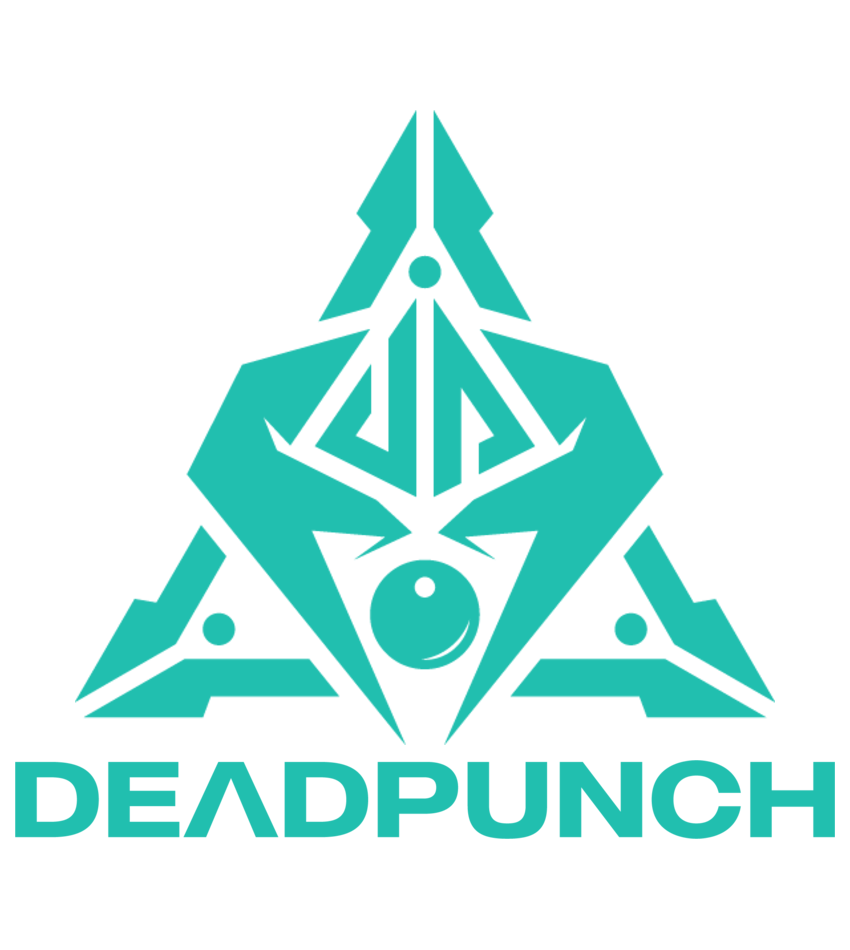
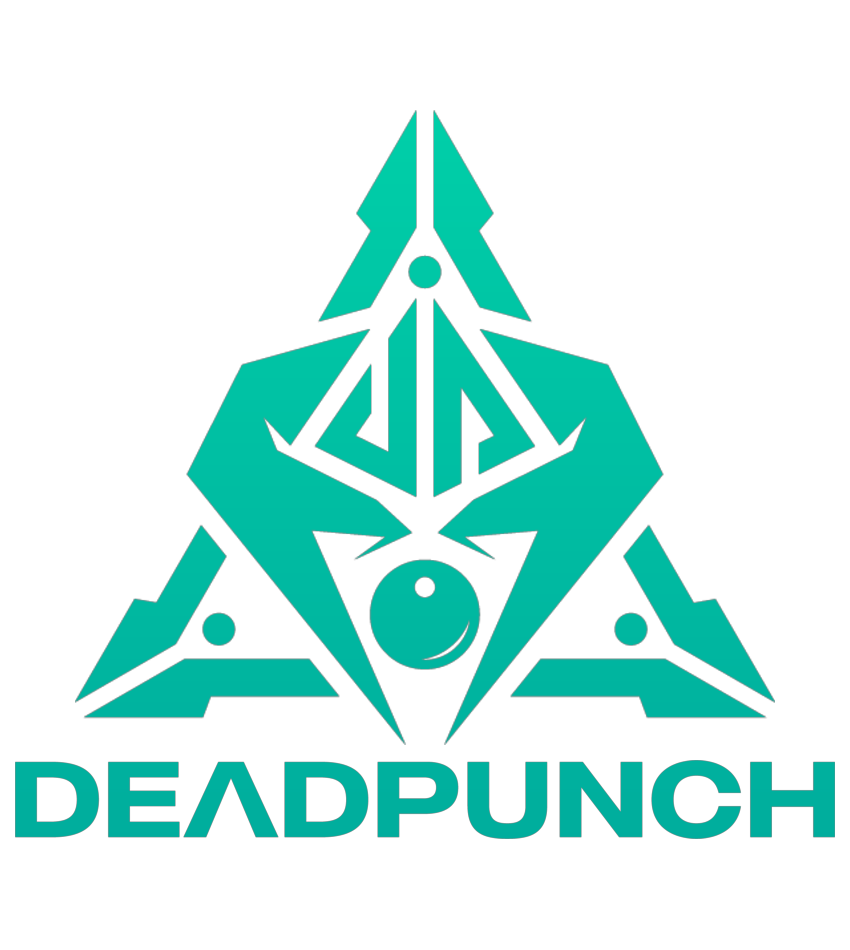
Simplify hero layout and fix all accent colors to cyan
- Simplified hero section: removed cluttered definition block
- Streamlined text from logo to notify button
- Updated tailwind config colors from red to cyan
- Fixed all hardcoded rgba red values to cyan
- Added cyan-glow CSS class
- Applied gradient to logo

Changed region(s): [[0.0, 0.1221, 1.0, 0.8853]]

diff --git a/src/components/HeroSection.tsx b/src/components/HeroSection.tsx
@@ -76,35 +76,25 @@ const HeroSection = () => {
         </div>
 
         {/* Hero Text */}
-        <div 
+        <div
           ref={textRef}
-          className="text-center max-w-4xl animate-reveal delay-200"
+          className="text-center max-w-2xl animate-reveal delay-200"
         >
-          <div className="inline-block px-4 py-1 mb-4 bg-deadpunch-red/10 border border-deadpunch-red/20 rounded-full backdrop-blur-sm">
-            <p className="text-deadpunch-red font-display uppercase tracking-wider text-sm">
-              For Players Who Play to Win
-            </p>
-          </div>
-          <h1 className="text-4xl md:text-5xl lg:text-6xl font-display font-bold mb-6 leading-tight text-white">
-            <span className="block mb-2">COMING SOON</span>
-            
-            {/* Definition Block - Added Here */}
-            <div className="max-w-2xl mx-auto my-4 px-5 py-3 bg-deadpunch-dark-lighter/50 border border-deadpunch-red/20 rounded-md backdrop-blur-sm">
-              <p className="text-base md:text-lg text-white italic">
-                <span className="text-deadpunch-red font-medium">The zone</span> is a state of complete focus and peak performance. In the billiards world, this heightened state of consciousness is known as <span className="text-deadpunch-red font-medium">deadpunch</span>.
-              </p>
-            </div>
-            
-            <span className="block text-deadpunch-red text-3xl md:text-4xl lg:text-5xl">Something's coming.</span>
-          </h1>
-          <p className="text-white text-lg md:text-xl mb-8 max-w-2xl mx-auto">
-            Be the first to know. Sign up to receive exclusive updates on early access when Deadpunch launches.
+          <p className="text-deadpunch-red font-display uppercase tracking-wider text-sm mb-6">
+            For Players Who Play to Win
           </p>
-          <div className="flex justify-center items-center">
-            <a href="#notify" className="btn-primary animate-reveal delay-300 bg-deadpunch-red hover:bg-deadpunch-red-hover text-white">
-              Notify Me
-            </a>
-          </div>
+
+          <h1 className="text-4xl md:text-5xl font-display font-bold mb-4 text-white">
+            COMING SOON
+          </h1>
+
+          <p className="text-deadpunch-gray-light text-lg mb-8">
+            Sign up for early access when we launch.
+          </p>
+
+          <a href="#notify" className="btn-primary bg-deadpunch-red hover:bg-deadpunch-red-hover text-white">
+            Notify Me
+          </a>
         </div>
       </div>
 

diff --git a/src/components/ProductTeasers.tsx b/src/components/ProductTeasers.tsx
@@ -62,10 +62,10 @@ const ProductTeasers = () => {
             >
               <Card className="bg-deadpunch-dark-lighter border-deadpunch-gray-dark hover:border-deadpunch-red/40 hover:ring-2 hover:ring-deadpunch-red/20 transition-all duration-300 h-full group">
                 <CardContent className="p-6 flex flex-col items-center text-center">
-                  <div className="w-20 h-20 flex items-center justify-center rounded-full bg-deadpunch-red/10 mb-6 mt-2 ring-2 ring-deadpunch-red/10 group-hover:ring-deadpunch-red/40 group-hover:bg-deadpunch-red/20 transition-all duration-300 group-hover:shadow-[0_0_15px_rgba(225,60,60,0.3)]">
+                  <div className="w-20 h-20 flex items-center justify-center rounded-full bg-deadpunch-red/10 mb-6 mt-2 ring-2 ring-deadpunch-red/10 group-hover:ring-deadpunch-red/40 group-hover:bg-deadpunch-red/20 transition-all duration-300 group-hover:shadow-[0_0_15px_rgba(0,212,170,0.3)]">
                     {product.icon}
                   </div>
-                  <h3 className="text-xl font-display font-semibold mb-3 text-white group-hover:text-white group-hover:drop-shadow-[0_0_2px_rgba(225,60,60,0.5)] transition-all duration-300">{product.title}</h3>
+                  <h3 className="text-xl font-display font-semibold mb-3 text-white group-hover:text-white group-hover:drop-shadow-[0_0_2px_rgba(0,212,170,0.5)] transition-all duration-300">{product.title}</h3>
                   <p className="text-white group-hover:text-white transition-colors duration-300">{product.description}</p>
                 </CardContent>
               </Card>

diff --git a/src/components/Features.tsx b/src/components/Features.tsx
@@ -11,7 +11,7 @@ interface FeatureCardProps {
 
 const FeatureCard: React.FC<FeatureCardProps> = ({ title, description, icon, delay }) => (
   <div className={`glass p-6 rounded-lg animate-reveal ${delay} border-l-2 border-deadpunch-red/10 hover:border-deadpunch-red/50 hover:ring-2 hover:ring-deadpunch-red/20 transition-all duration-300 group`}>
-    <div className="w-12 h-12 flex items-center justify-center rounded-lg bg-deadpunch-red/10 text-deadpunch-red mb-4 border border-deadpunch-red/10 group-hover:border-deadpunch-red/30 group-hover:shadow-[0_0_10px_rgba(225,60,60,0.2)] transition-all duration-300">
+    <div className="w-12 h-12 flex items-center justify-center rounded-lg bg-deadpunch-red/10 text-deadpunch-red mb-4 border border-deadpunch-red/10 group-hover:border-deadpunch-red/30 group-hover:shadow-[0_0_10px_rgba(0,212,170,0.2)] transition-all duration-300">
       {icon}
     </div>
     <h3 className="text-xl font-display font-semibold mb-2 text-white group-hover:text-white transition-colors duration-300">{title}</h3>

diff --git a/tailwind.config.ts b/tailwind.config.ts
@@ -68,9 +68,9 @@ export default {
 					ring: 'hsl(var(--sidebar-ring))'
 				},
 				deadpunch: {
-					red: '#E13C3C',
-					'red-bright': '#FF3A3A',
-					'red-hover': '#FF5252',
+					red: '#00D4AA',
+					'red-bright': '#00E6B8',
+					'red-hover': '#00B894',
 					dark: '#121212',
 					'dark-lighter': '#1E1E1E',
 					'dark-lightest': '#2A2A2A',
@@ -105,12 +105,12 @@ export default {
 					'100%': { opacity: '1', transform: 'translateX(0)' }
 				},
 				'pulse-glow': {
-					'0%, 100%': { 
-						boxShadow: '0 0 20px 2px rgba(225, 60, 60, 0.3)',
+					'0%, 100%': {
+						boxShadow: '0 0 20px 2px rgba(0, 212, 170, 0.3)',
 						transform: 'scale(1)'
 					},
-					'50%': { 
-						boxShadow: '0 0 25px 5px rgba(225, 60, 60, 0.5)',
+					'50%': {
+						boxShadow: '0 0 25px 5px rgba(0, 212, 170, 0.5)',
 						transform: 'scale(1.01)'
 					}
 				},

diff --git a/src/components/NotifyDialog.tsx b/src/components/NotifyDialog.tsx
@@ -124,7 +124,7 @@ const NotifyDialog = ({ trigger, open, onOpenChange }: NotifyDialogProps) => {
   const dialogContent = (
     <DialogContent className="sm:max-w-[425px] bg-deadpunch-dark border-deadpunch-gray-dark text-white">
       <DialogHeader>
-        <div className="mx-auto w-12 h-12 bg-deadpunch-red rounded-full flex items-center justify-center red-glow mb-4">
+        <div className="mx-auto w-12 h-12 bg-deadpunch-red rounded-full flex items-center justify-center cyan-glow mb-4">
           <Mail className="text-white" size={20} />
         </div>
         <DialogTitle className="text-center text-xl">Be The First To Know</DialogTitle>

diff --git a/src/components/EmailForm.tsx b/src/components/EmailForm.tsx
@@ -102,7 +102,7 @@ const EmailForm = () => {
       
       <div className="container mx-auto px-4">
         <div className="max-w-3xl mx-auto glass p-8 md:p-12 rounded-xl relative z-10 animate-reveal">
-          <div className="absolute -top-6 left-1/2 transform -translate-x-1/2 w-12 h-12 bg-deadpunch-red rounded-full flex items-center justify-center red-glow">
+          <div className="absolute -top-6 left-1/2 transform -translate-x-1/2 w-12 h-12 bg-deadpunch-red rounded-full flex items-center justify-center cyan-glow">
             <Mail className="text-white" size={20} />
           </div>
           

diff --git a/src/components/pool/race/RaceToSelector.tsx b/src/components/pool/race/RaceToSelector.tsx
@@ -25,7 +25,7 @@ export const RaceToSelector = ({ value, onChange }: RaceToSelectorProps) => {
           </Button>
         </div>
         
-        <div className="mx-3 text-4xl font-display font-bold text-deadpunch-red drop-shadow-[0_0_8px_rgba(225,60,60,0.7)]">
+        <div className="mx-3 text-4xl font-display font-bold text-deadpunch-red drop-shadow-[0_0_8px_rgba(0,212,170,0.7)]">
           {value}
         </div>
         

diff --git a/src/index.css b/src/index.css
@@ -214,6 +214,11 @@
   @apply px-8 py-3 rounded-full font-medium text-white transition-all duration-300 transform hover:scale-105;
 }
 
+/* Cyan glow effect for accent elements */
+.cyan-glow {
+  box-shadow: 0 0 15px rgba(0, 212, 170, 0.4);
+}
+
 /* Fix Leaflet map display issues */
 .leaflet-container {
   height: 100%;
